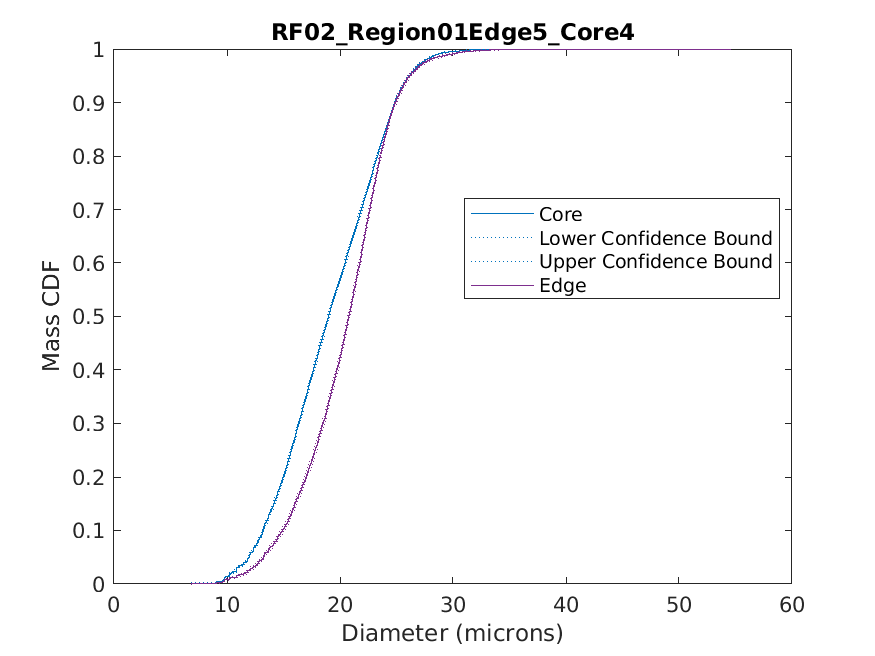
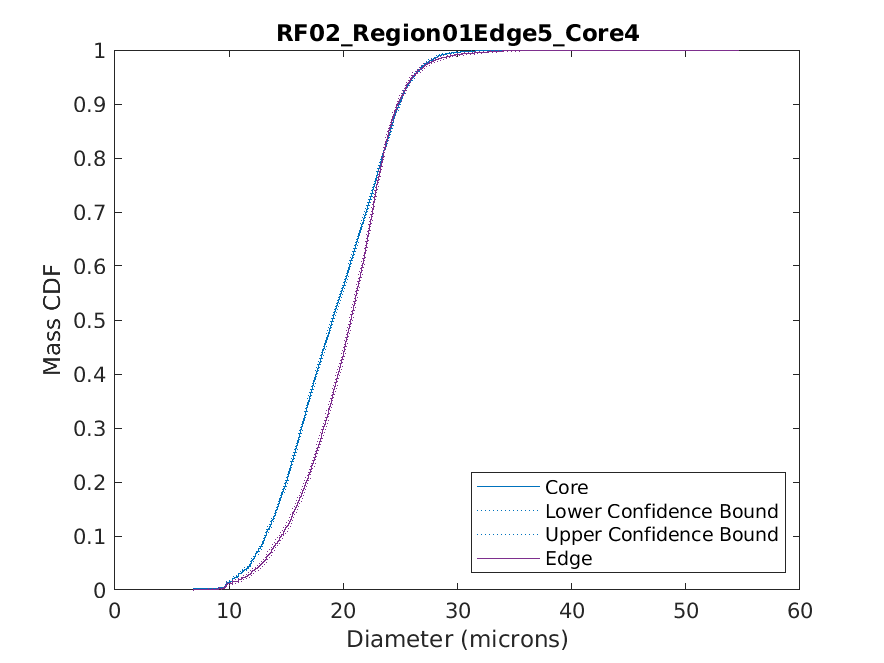
NCAR reconstruction results

diff --git a/Updraft_Analysis/SPICULE/Entrainment_Analysis/NCAR_reconstruction/data_two_cdfs_continuous.m b/Updraft_Analysis/SPICULE/Entrainment_Analysis/NCAR_reconstruction/data_two_cdfs_continuous.m
@@ -1,15 +1,31 @@
-function [C_query, core_interp, edge_interp] = data_two_cdfs_continuous(quicklookfile1, quicklookfile2);
+function [C_query, core_interp, edge_interp] = data_two_cdfs_continuous(region, corestart, coreend, edgestart, edgeend);
 
-quicklook1 = load(quicklookfile1); % loaded structure
-diameters1 = quicklook1.ans.eqDiam*1000000;
+% high resoltion time series of holodec
+holo_path = sprintf('../../%s/NCAR_reconstruction', region);
+holofile = dir(fullfile(holo_path, '*_HOLODEC.nc'));
+holo_nc = fullfile(holo_path, holofile.name);
 
-quicklook2 = load(quicklookfile2); % loaded structure
-diameters2 = quicklook2.ans.eqDiam*1000000;
+holotimes = ncread(holo_nc,'particletime');
+diameters = ncread(holo_nc,'d');
+totalN = length(diameters);
+
+date_ref = split(holofile.name, "_")
+year = date_ref{2}(1:4)
+month = date_ref{2}(5:6)
+day = date_ref{2}(7:8)
+
+OFFSET = -seconds(0.0);
+holotimes = datetime(str2double(year),str2double(month),str2double(day)) + seconds(holotimes(:,1)) + OFFSET;
+coreIndexes = (holotimes >= corestart) & (holotimes <= coreend);
+edgeIndexes = (holotimes >= edgestart) & (holotimes <= edgeend);
+
+coreDiam = diameters(coreIndexes);
+edgeDiam = diameters(edgeIndexes);
 
 C_query = 0:0.01:1.0;
 
-[C1, d1, Clo1, Cup1]  = ecdf(diameters1,'Bounds','on');
-[C2, d2, Clo2, Cup2]  = ecdf(diameters2,'Bounds','on');
+[C1, d1, Clo1, Cup1]  = ecdf(coreDiam,'Bounds','on');
+[C2, d2, Clo2, Cup2]  = ecdf(edgeDiam,'Bounds','on');
 
 core_interp = interp1(C1, d1, C_query);
 edge_interp = interp1(C2, d2, C_query);

diff --git a/Updraft_Analysis/SPICULE/Entrainment_Analysis/NCAR_reconstruction/plot_two_cdfs_continuous.m b/Updraft_Analysis/SPICULE/Entrainment_Analysis/NCAR_reconstruction/plot_two_cdfs_continuous.m
@@ -14,7 +14,7 @@ year = date_ref{2}(1:4)
 month = date_ref{2}(5:6)
 day = date_ref{2}(7:8)
 
-OFFSET = -seconds(1.0);
+OFFSET = -seconds(0.0);
 holotimes = datetime(str2double(year),str2double(month),str2double(day)) + seconds(holotimes(:,1)) + OFFSET;
 coreIndexes = (holotimes >= corestart) & (holotimes <= coreend);
 edgeIndexes = (holotimes >= edgestart) & (holotimes <= edgeend);
